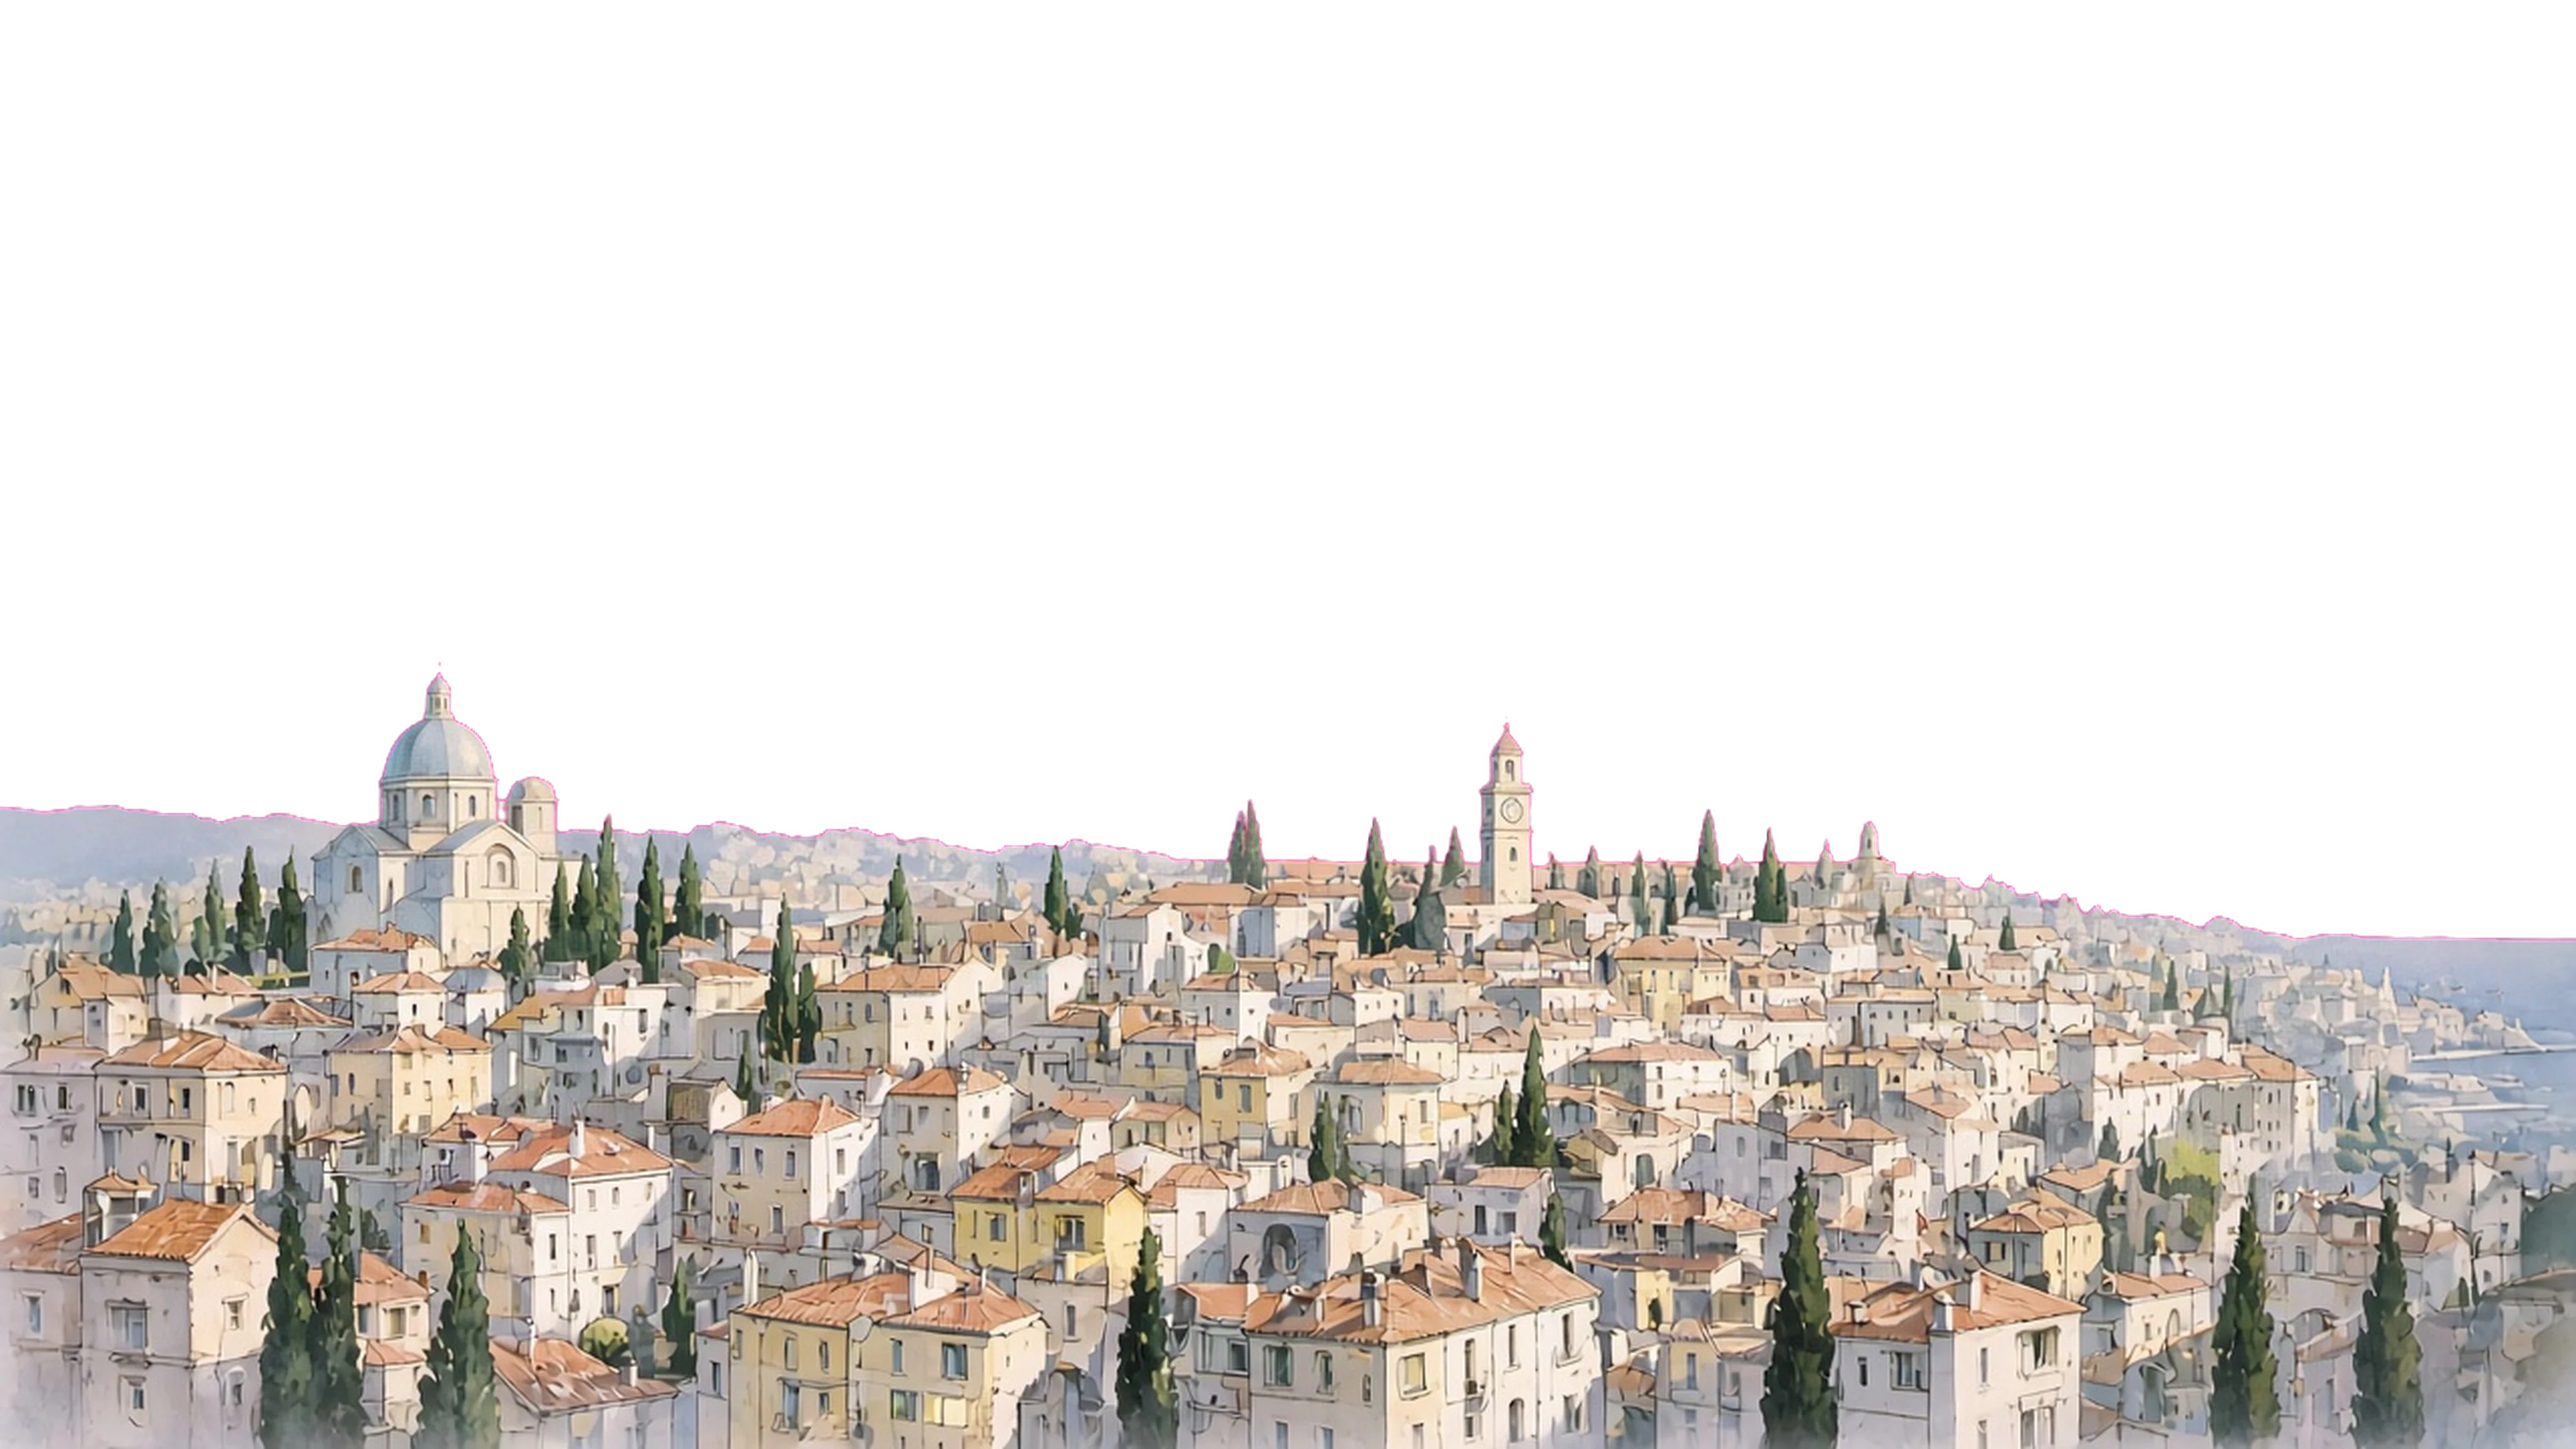
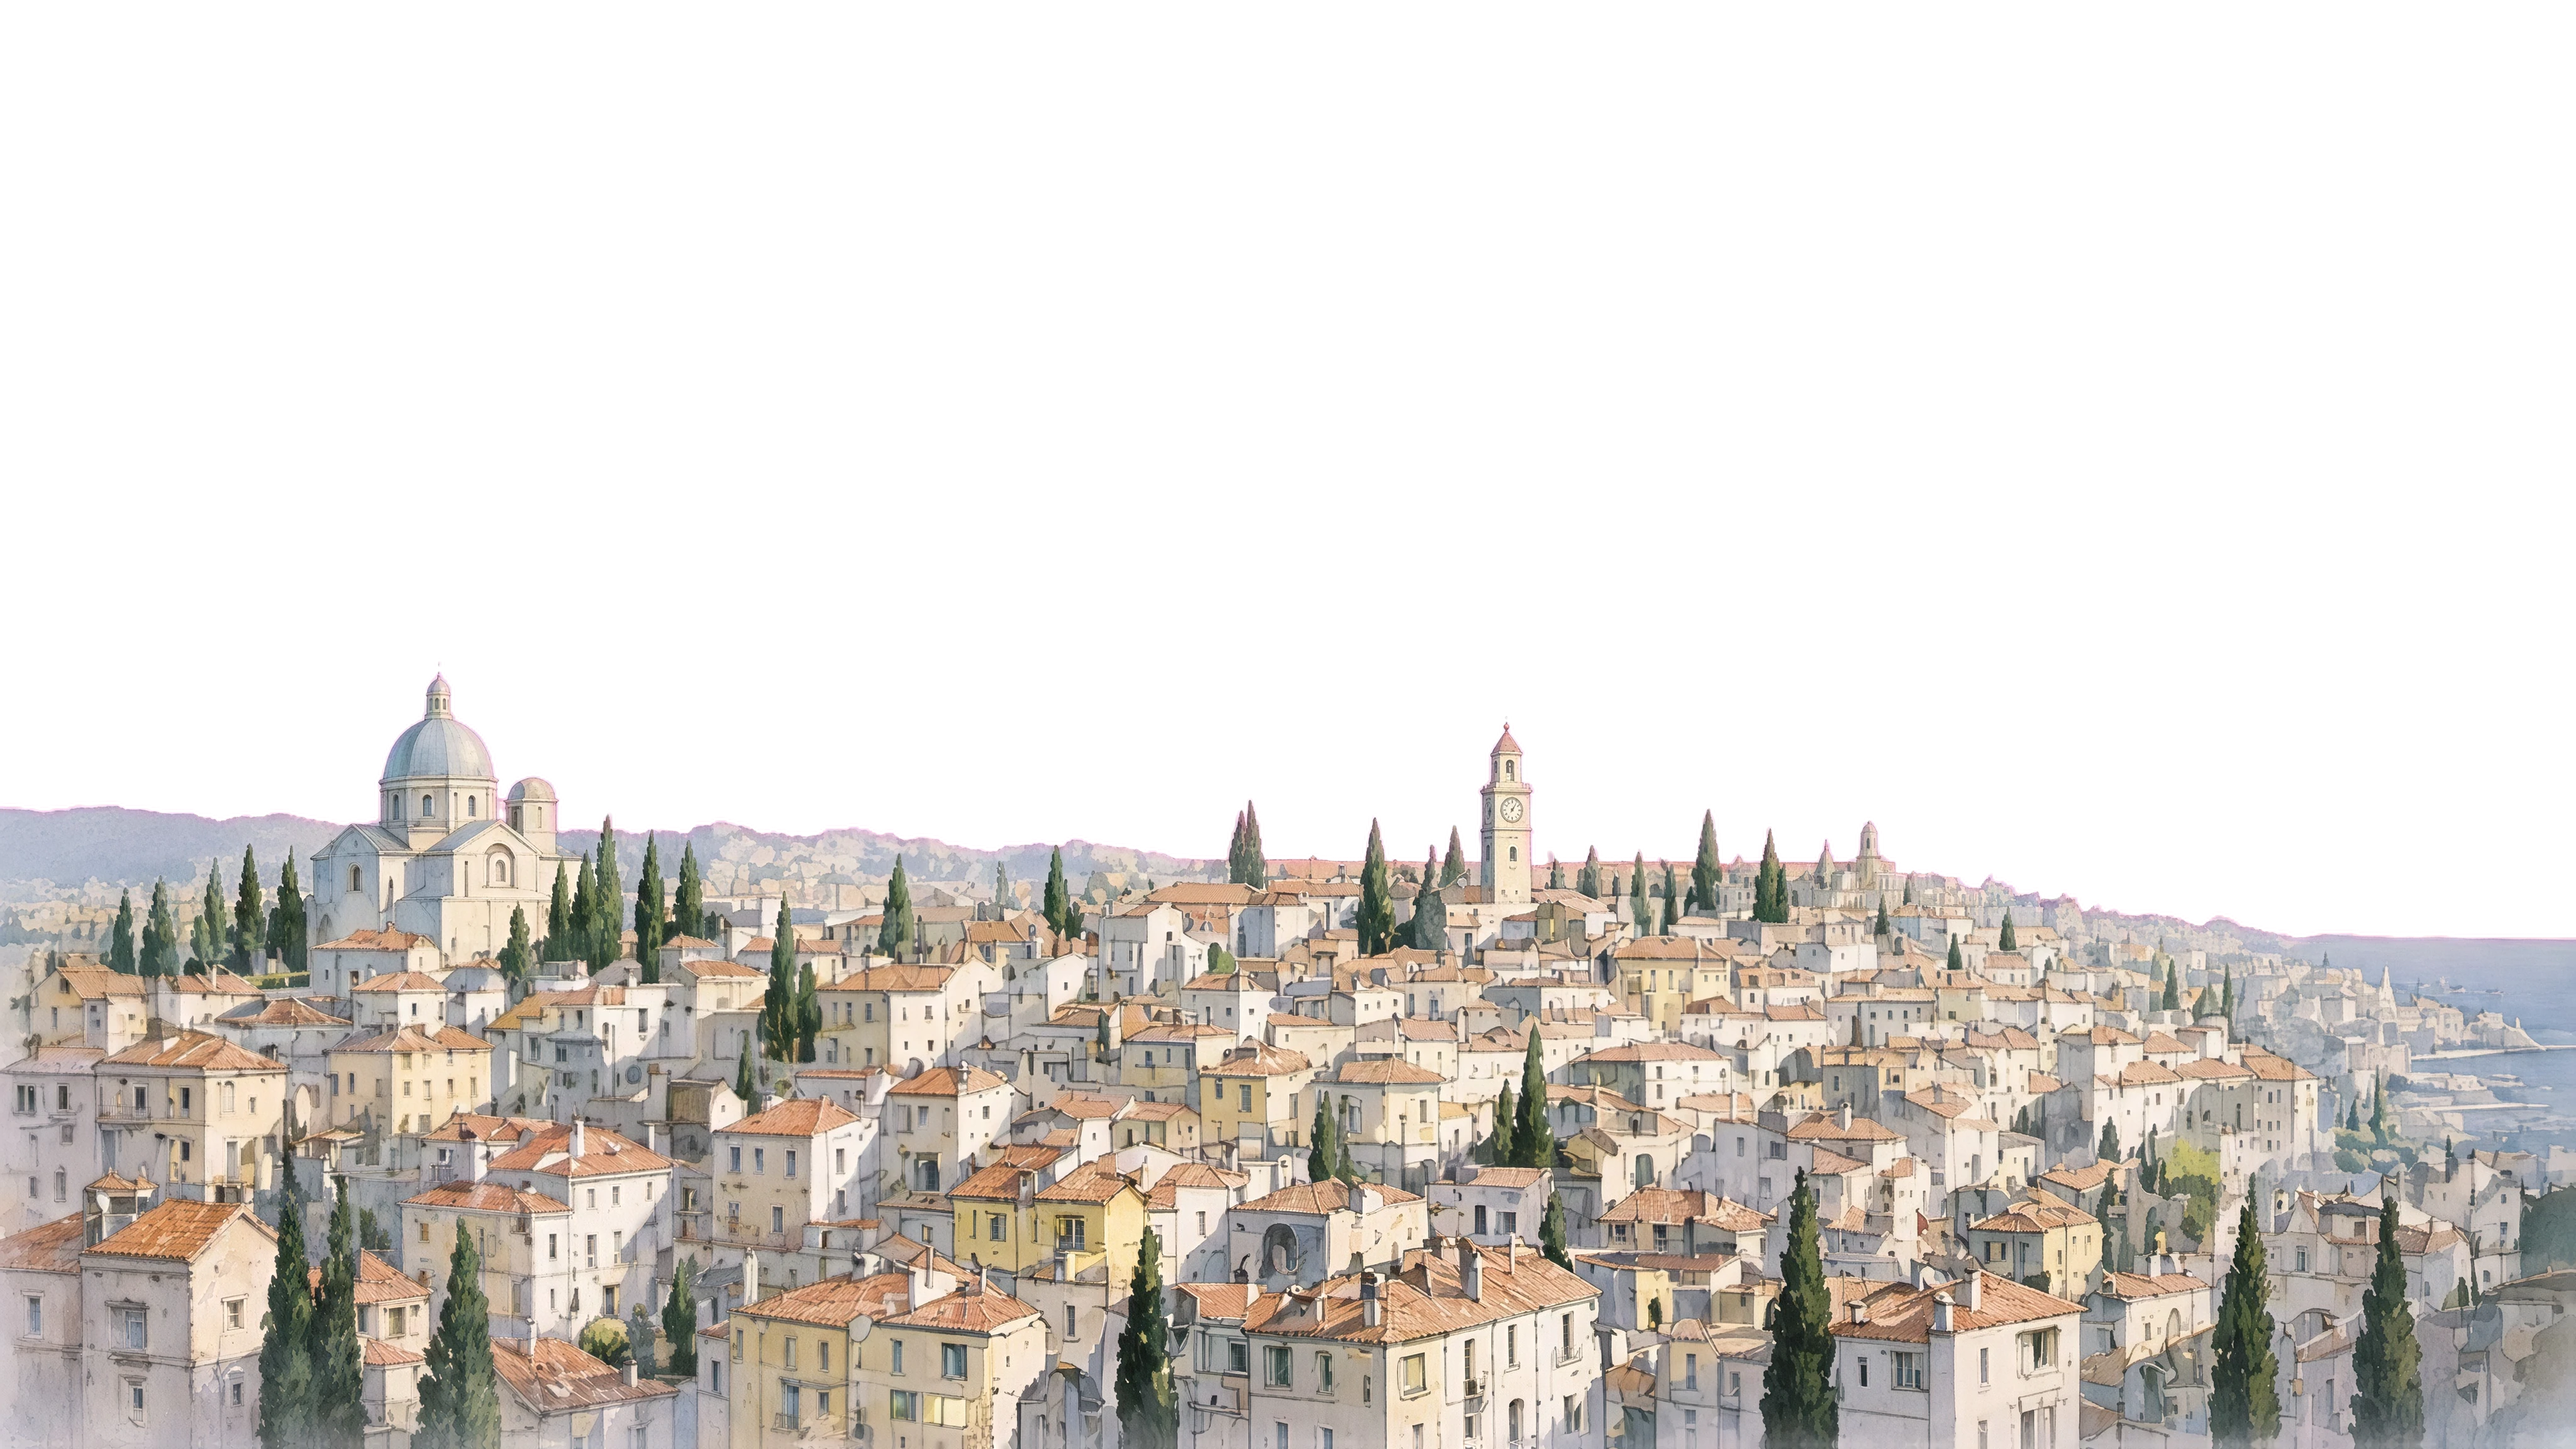
Backdrop: sky/sea + far-town layers repainted tile-by-tile at ~3x detail (aligned + detail-transferred, 4096 px)

diff --git a/art/pipeline/repaint_backdrop.py b/art/pipeline/repaint_backdrop.py
@@ -1,0 +1,66 @@
+"""Sharper painted backdrop (gfx2). The old panorama/far-town layers were 1280-px paintings upscaled to 4096.
+Each 1536x864 tile of the 4096x2304 layer (3x3 sky/sea, 3x2 far town; 256/144 px overlap) was repainted at 1280x720
+by the image tool with the tile as reference ("same composition, more detail"). Here every repainted tile is
+  1. aligned to its source tile (OpenCV ECC, affine, on blurred greyscale) so nothing drifts,
+  2. detail-transferred: result = repaint - blur(repaint) + blur(source), so tone/colour/composition stay exactly the
+     source's (seamless across tiles) and only the fine brushwork comes from the repaint,
+  3. feather-blended into the full layer. The far-town alpha is the original's (repaint only fills RGB).
+Usage: python3 art/pipeline/repaint_backdrop.py <tiles_dir>   (writes public/town/sky-sea.webp, far-town.webp)
+"""
+import sys, os
+import numpy as np, cv2
+from PIL import Image
+D = sys.argv[1] if len(sys.argv) > 1 else '/workspace/gfx-tiles'
+TW, TH = 1536, 864
+BLUR = float(os.environ.get('BLUR', 5))
+
+def align(src, gen):
+    a = cv2.GaussianBlur(cv2.cvtColor(src, cv2.COLOR_RGB2GRAY), (0, 0), 3).astype(np.float32)
+    b = cv2.GaussianBlur(cv2.cvtColor(gen, cv2.COLOR_RGB2GRAY), (0, 0), 3).astype(np.float32)
+    s = 0.25
+    a2, b2 = cv2.resize(a, None, fx=s, fy=s), cv2.resize(b, None, fx=s, fy=s)
+    W = np.eye(2, 3, dtype=np.float32)
+    try:
+        _, W = cv2.findTransformECC(a2, b2, W, cv2.MOTION_AFFINE, (cv2.TERM_CRITERIA_EPS | cv2.TERM_CRITERIA_COUNT, 200, 1e-5), None, 5)
+    except cv2.error as e:
+        print('  ECC failed, identity', e); return gen, 0.0
+    W[:, 2] /= s
+    out = cv2.warpAffine(gen, W, (gen.shape[1], gen.shape[0]), flags=cv2.INTER_CUBIC + cv2.WARP_INVERSE_MAP, borderMode=cv2.BORDER_REFLECT)
+    return out, float(np.abs(W[:, 2]).max())
+
+def transfer(src, gen):
+    s = src.astype(np.float32); g = gen.astype(np.float32)
+    k = (0, 0)
+    return np.clip(g - cv2.GaussianBlur(g, k, BLUR) + cv2.GaussianBlur(s, k, BLUR), 0, 255)
+
+def compose(base, name, rows, cols):
+    H, W = base.shape[:2]
+    acc = np.zeros((H, W, 3), np.float32); wsum = np.zeros((H, W, 1), np.float32)
+    wy = np.minimum(1, np.minimum(np.arange(TH) + 1, TH - np.arange(TH)) / 144.0)
+    wx = np.minimum(1, np.minimum(np.arange(TW) + 1, TW - np.arange(TW)) / 256.0)
+    win = (wy[:, None] * wx[None, :])[..., None].astype(np.float32)
+    for r, y in enumerate(rows):
+        for c, x in enumerate(cols):
+            f = f'{D}/gen_{name}_{r}{c}.jpg'
+            if not os.path.exists(f): print('missing', f); continue
+            src = base[y:y + TH, x:x + TW, :3]
+            gen = cv2.resize(np.array(Image.open(f).convert('RGB')), (TW, TH), interpolation=cv2.INTER_LANCZOS4)
+            gen, sh = align(src, gen)
+            t = transfer(src, gen)
+            acc[y:y + TH, x:x + TW] += t * win; wsum[y:y + TH, x:x + TW] += win
+            print(f'{name} {r}{c} shift {sh:.1f}px')
+    out = np.where(wsum > 1e-3, acc / np.maximum(wsum, 1e-3), base[..., :3].astype(np.float32))
+    return out.astype(np.uint8)
+
+sky = np.array(Image.open('public/town/sky-sea.webp').convert('RGB'))
+o = compose(sky, 'sky', [0, 720, 1440], [0, 1280, 2560])
+Image.fromarray(o).save('public/town/sky-sea.webp', quality=90, method=6)
+far = np.array(Image.open('public/town/far-town.webp').convert('RGBA'))
+# composite the reference on the same haze colour the tiles were cut from
+a = far[..., 3:4].astype(np.float32) / 255
+ref = (far[..., :3] * a + np.array([220, 232, 238]) * (1 - a)).astype(np.uint8)
+o = compose(ref, 'town', [1045, 1440], [0, 1280, 2560])
+# un-premultiply against the haze so semi-transparent edges keep their original colour
+rgb = np.where(a > 0.02, (o.astype(np.float32) - np.array([220, 232, 238]) * (1 - a)) / np.maximum(a, 0.02), far[..., :3])
+Image.fromarray(np.dstack([np.clip(rgb, 0, 255).astype(np.uint8), far[..., 3]])).save('public/town/far-town.webp', quality=90, method=6)
+print('sizes', os.path.getsize('public/town/sky-sea.webp') // 1024, os.path.getsize('public/town/far-town.webp') // 1024, 'KiB')
